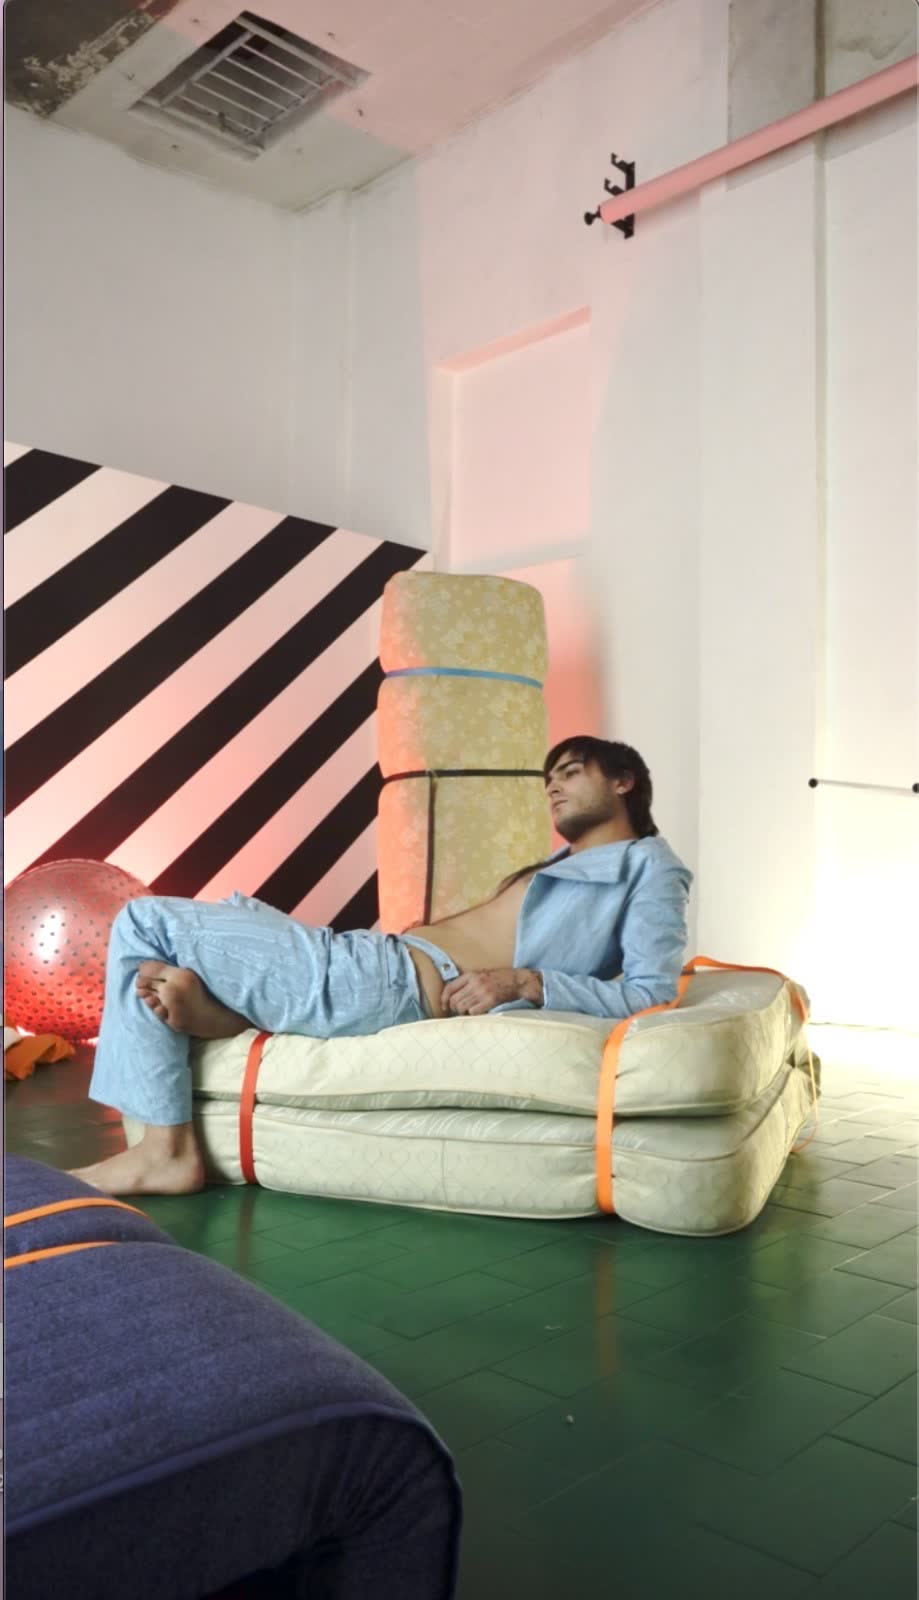
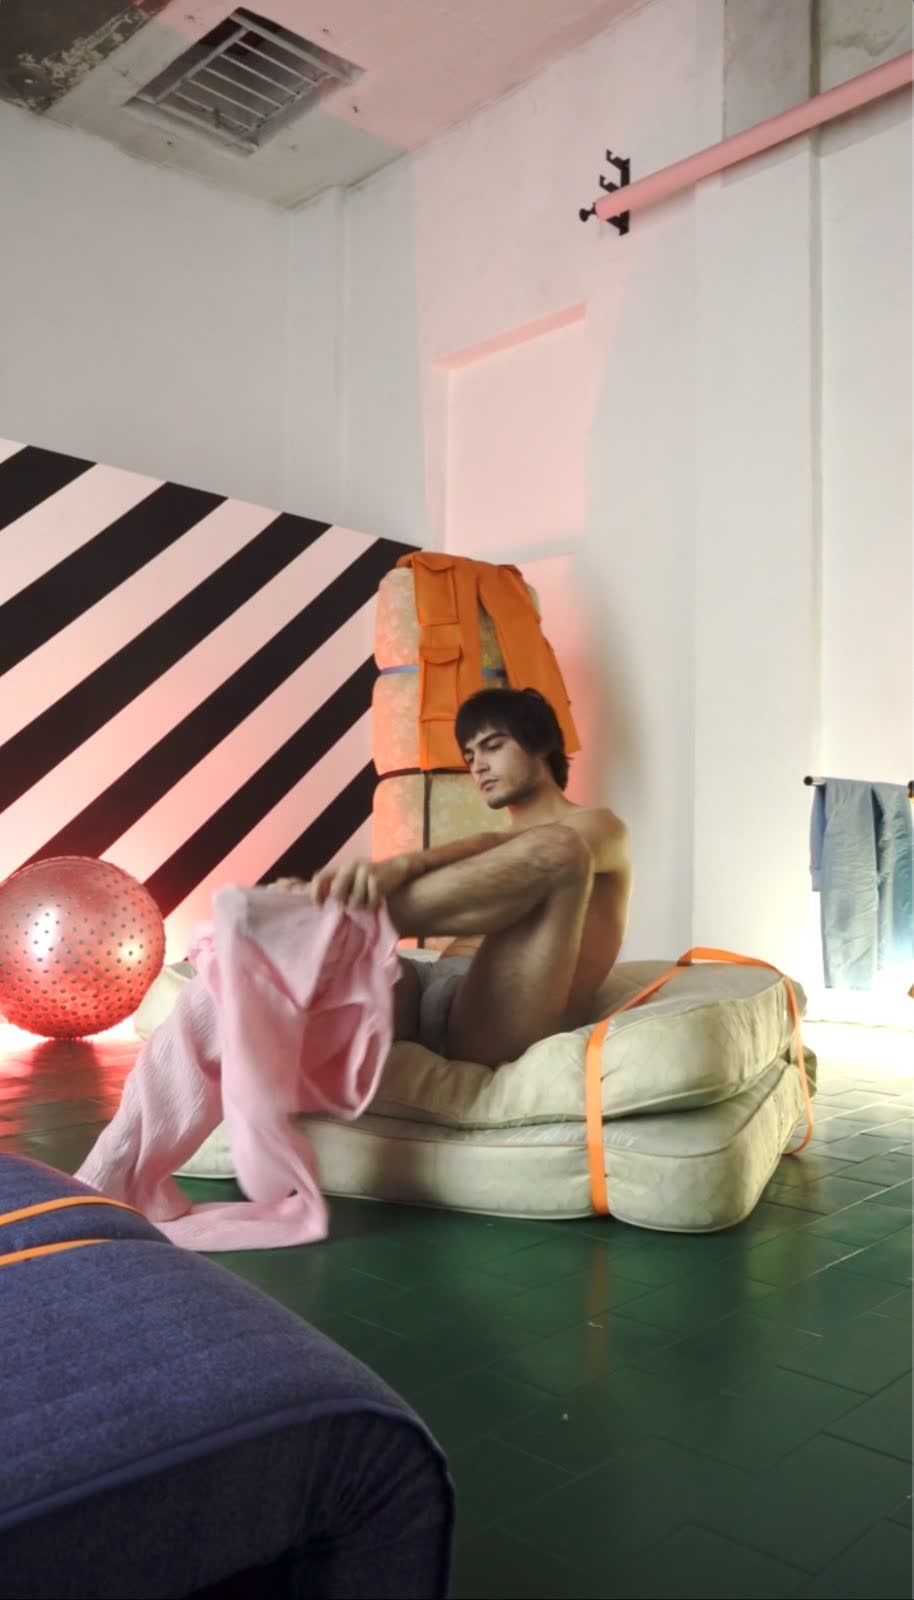
feat: Le Rêve Lever ha sette fotografie in più, e la mensola si accende
L'opera era tutta verticale — sette scatti 2:3 e un filmato 9:16 — e la sua
striscia misurava 918px contro un binario di 1440. Sotto quella soglia il
motore dell'anello non si accende affatto: la mensola restava ferma, e
niente in pagina lo dichiarava.

Sette fotografie dalla cartella sorgente, scelte da Lucio: tre da
`performance` e quattro da `display`. Le tre di `performance` sono le
uniche ORIZZONTALI dell'opera e stanno in TESTA — la prima è anche la
copertina, ed è l'unica misura in cui l'indice e la cronologia leggono
quest'opera.

Metterle davanti non è solo curatela: la lastra corrente è la più larga
della fila, e una 4:3 in quel posto è larga 243 contro i 121 di una 2:3.
Con loro la lunghezza naturale passa da 918 a 2066 contro un binario di
1409, e l'anello gira con 657px di margine.

Un errore mio, corretto: le misure che davo prima erano prese con la
lastra corrente INGRANDITA, mentre `misura()` in mensola.tsx le prende a
`data-corrente` tolto — 199px di differenza. Le cifre di questo commit
sono prese come le prende il motore.

E la descrizione scende da 404 a 288 battute, da sette righe a sei. Con
la corrente orizzontale la lastra è larga 509 e arriva sotto la colonna
del testo: le ultime righe finivano sopra la fotografia. Il tetto delle
~330 battute non è una regola di stile, è (305 − 226) / 17px di riga.

diff --git a/lib/opere.ts b/lib/opere.ts
@@ -594,18 +594,27 @@ export const OPERE: Opera[] = [
     luogo: "studioamatoriale, Milano",
     densita: "piena",
     descrizione:
-      "Un progetto in due livelli: il design di una capsule collection e un " +
-      "progetto performativo, presentato da studioamatoriale a Milano dal 21 al " +
-      "24 settembre 2022. I tre look della capsule Lever sviluppano lo studio " +
-      "filologico del costume e la sua riformulazione contemporanea. La " +
-      "performance, attivata a più riprese durante l'opening, fa parte della " +
-      "riflessione sul corpo, l'eroticità, la ritualità e il voyeurismo: lo " +
-      "spazio diventa il luogo privato di un performer che indossa i capi in " +
-      "una dimensione parallela a quella del pubblico.",
+      "Un progetto in due livelli: una capsule collection e una performance, " +
+      "dal 21 al 24 settembre 2022. I tre look sviluppano lo studio filologico " +
+      "del costume in una riformulazione contemporanea. La performance, " +
+      "ripetuta durante l'opening, riflette su corpo, eroticità, ritualità e " +
+      "voyeurismo.",
+    // 01→03 sono le tre ORIZZONTALI, da `performance`, e stanno in testa per
+    // scelta di Lucio: la prima è anche la copertina, ed è l'unica misura in
+    // cui l'indice e la cronologia leggono quest'opera. 04→10 sono la
+    // selezione di `_selected copy`, 11→14 le vedute dell'allestimento da
+    // `display`.
+    //
+    // Le sette aggiunte il 7 settembre 2026 non sono solo curatela: l'opera
+    // era tutta verticale e la sua mensola non arrivava a riempire il binario,
+    // quindi l'anello non si accendeva e la fila restava ferma. Vedi
+    // `APERTI.md` — è il motivo per cui le orizzontali contano doppio qui.
     scatti: foto("le-reve-lever",
-      ["01", 919, 1600], ["02", 914, 1600], ["03", 901, 1600],
-      ["04", 917, 1600], ["05", 919, 1600], ["06", 1200, 1600],
-      ["07", 1200, 1600],
+      ["01", 1600, 1199], ["02", 1600, 1200], ["03", 1600, 1200],
+      ["04", 919, 1600], ["05", 914, 1600], ["06", 901, 1600],
+      ["07", 917, 1600], ["08", 919, 1600], ["09", 1200, 1600],
+      ["10", 1200, 1600], ["11", 1200, 1600], ["12", 1200, 1600],
+      ["13", 1200, 1600], ["14", 1200, 1600],
     ),
     filmati: [film("le-reve-lever", 360, 640, 53.66, true, "Alessandro Di Palma")],
     // Dal comunicato (`descrizione.jpeg`), che è il documento pubblicato. Il
